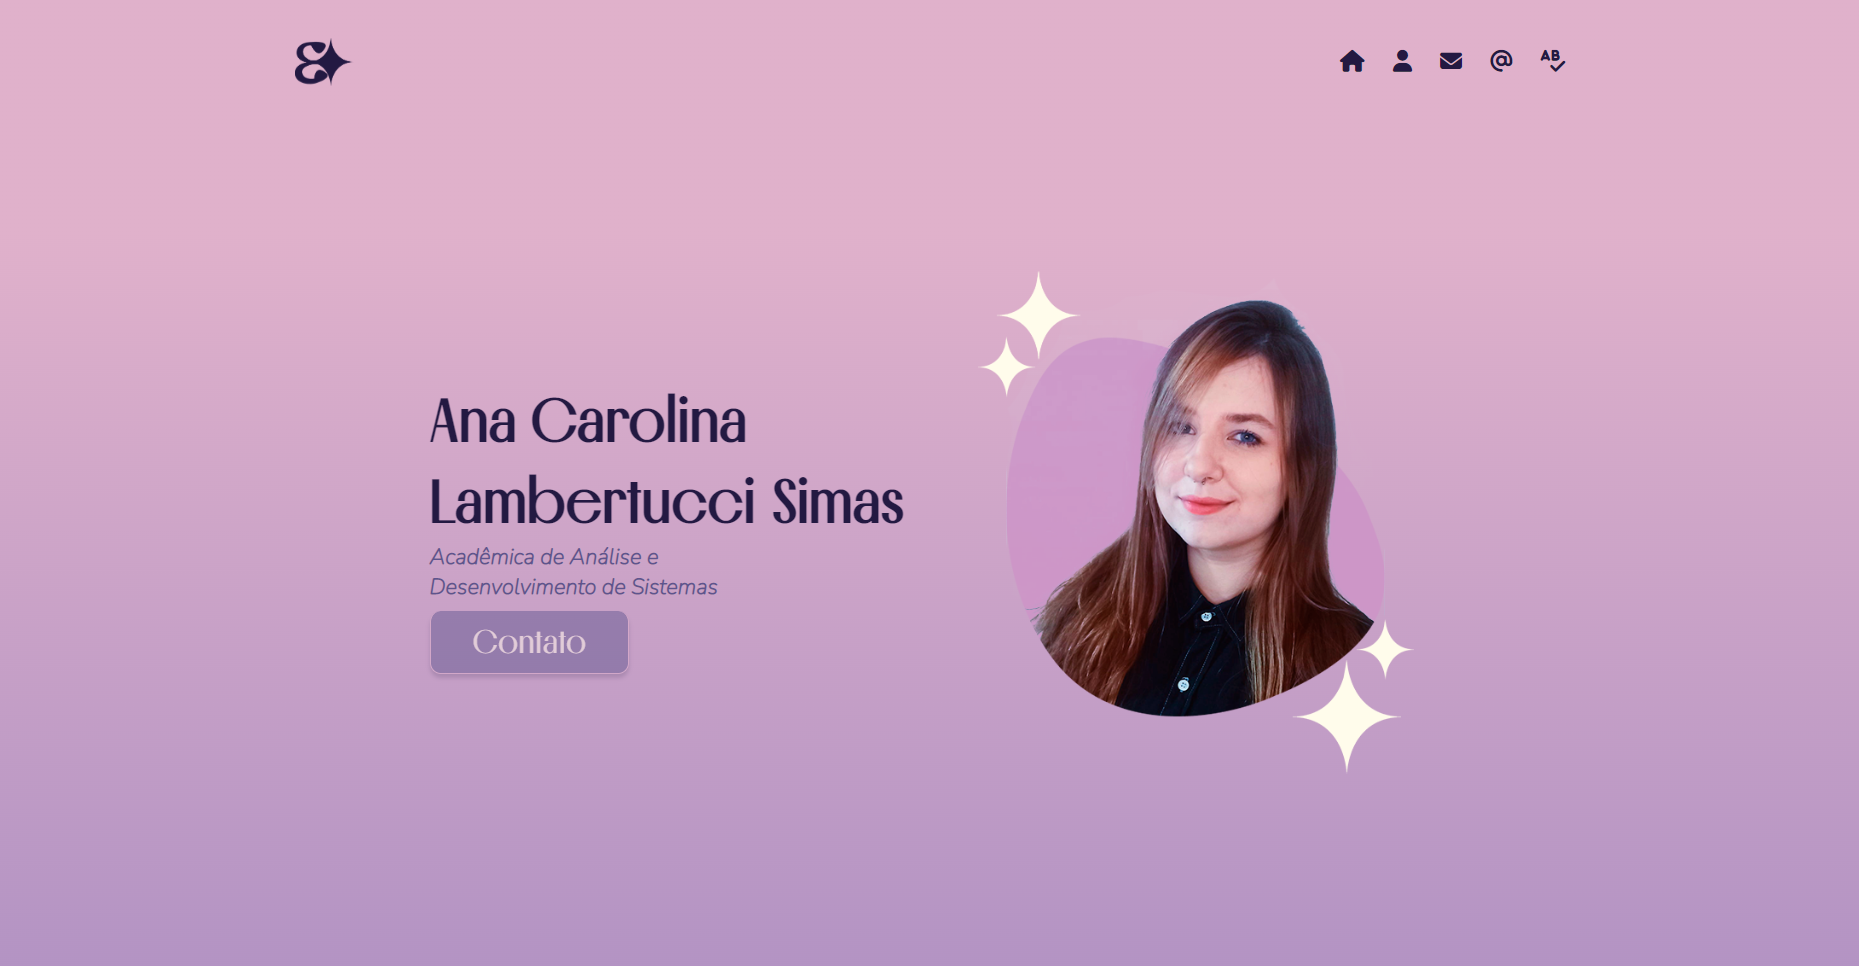
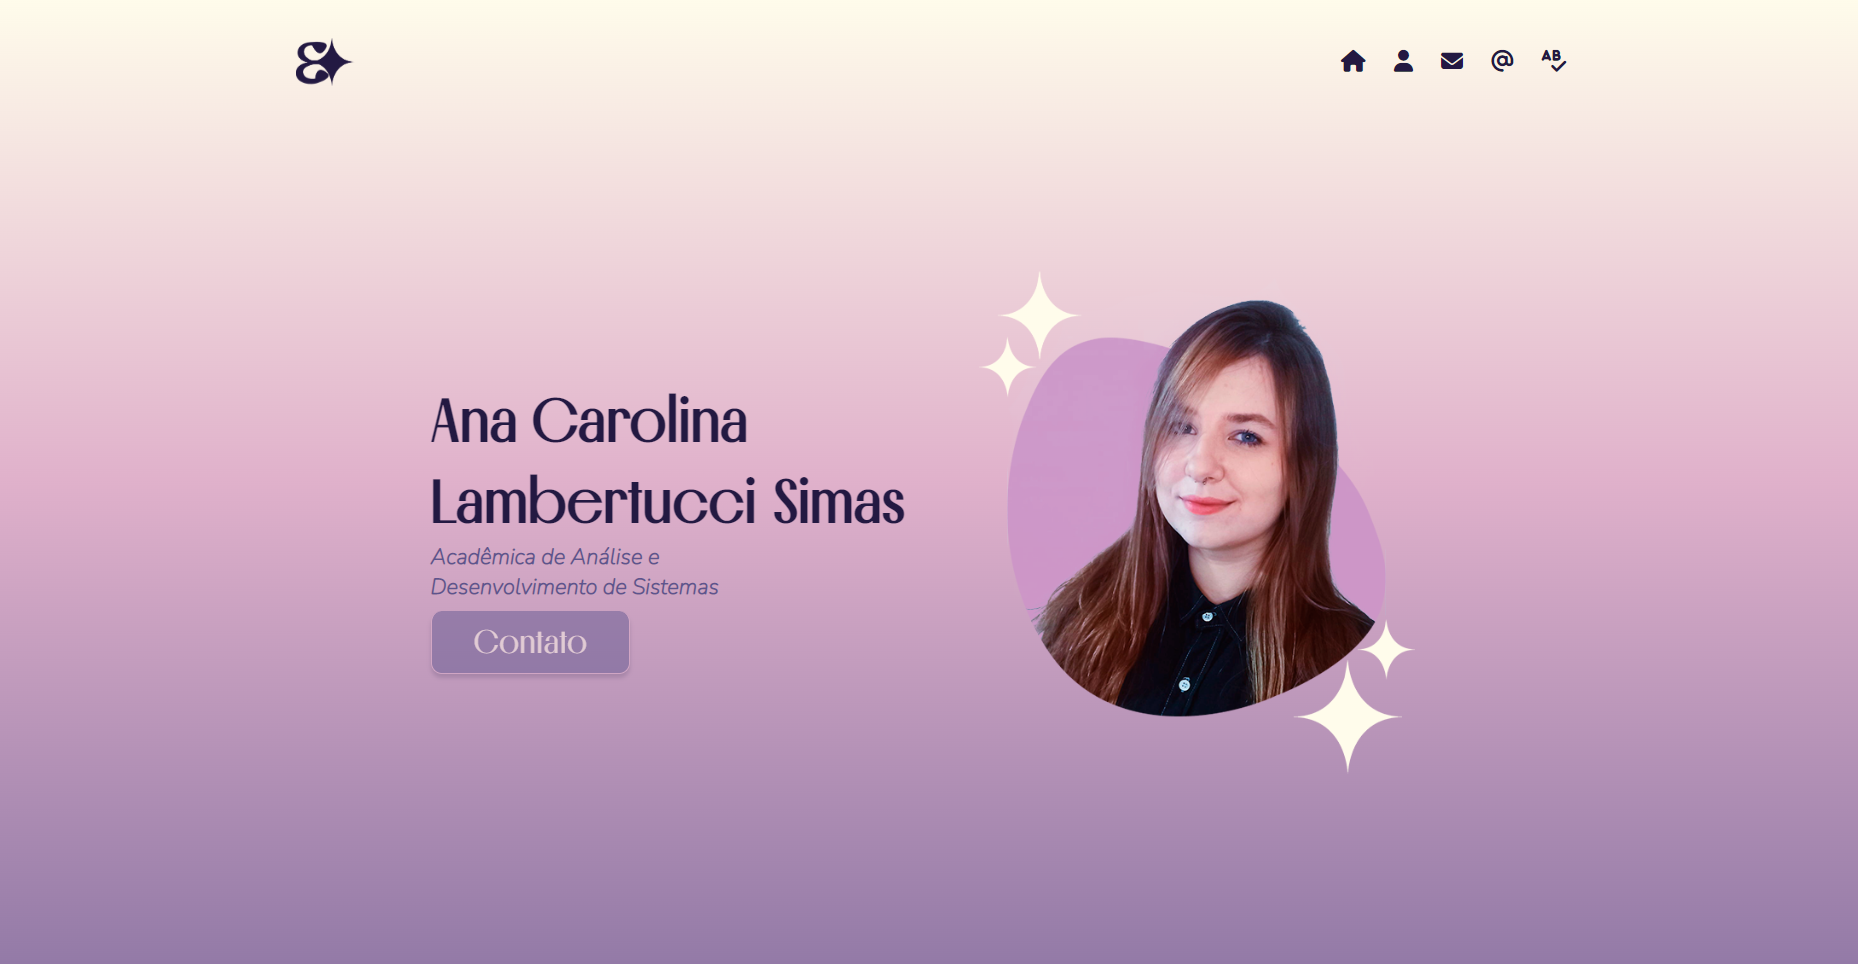
feat: alteração css

diff --git a/css/style.css b/css/style.css
@@ -8,7 +8,7 @@
 
 body{
     font-size: 100%;
-    background: linear-gradient(180deg, rgba(224,177,203,1) 18%, rgba(159,134,192,1) 100%);
+    background: linear-gradient(180deg, rgba(255,252,235,1) 0%, rgba(224,177,203,1) 37%, rgba(94,84,142,1) 100%);
 
 }
 
